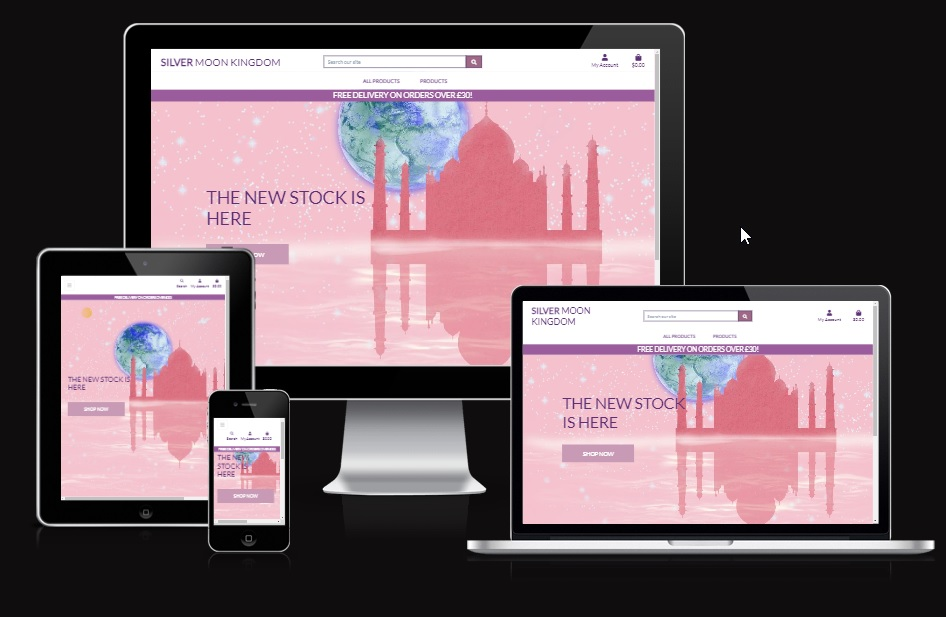
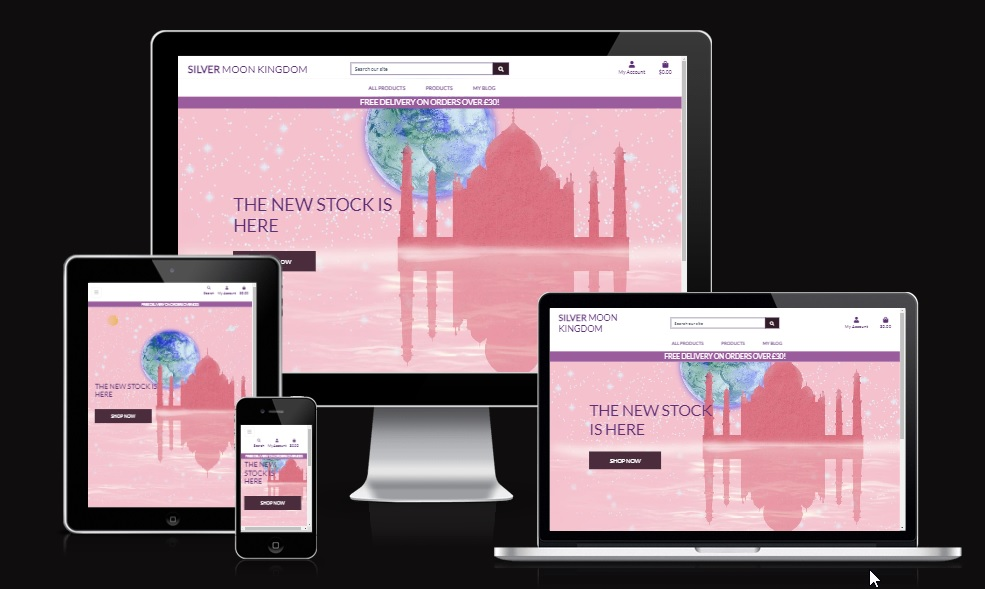
deployment commit

diff --git a/products/templates/products/product_detail.html b/products/templates/products/product_detail.html
@@ -44,9 +44,11 @@
                     {% endif %}
                     <br>
                     {% if product.artistname %}
-                    <small class="text-muted"><i class="fas fa-book mr-1"></i>{{ product.artistname }}</small>
-                    {% else %}
-                        <small class="text-muted">No Name available</small>
+                    <p class="small mt-1 mb-0">
+                        <a class="text-muted" href="{% url 'products' %}?artistname={{ product.artistname }}">
+                            <i class="fas fa-book mr-1"></i>{{ product.artistname }}
+                        </a>
+                    </p>
                     {% endif %}
                     {% if request.user.is_superuser %}
                         <small class="ml-3">

diff --git a/templates/includes/main-nav.html b/templates/includes/main-nav.html
@@ -28,7 +28,7 @@
             </div>
         </li>
         <li class="nav-item dropdown">
-            <a class="logo-font font-weight-bold nav-link text-black mr-5" href="{% url 'blog' %}" id="clothing-link" data-toggle="dropdown" aria-haspopup="true" aria-expanded="false">
+            <a class="logo-font font-weight-bold nav-link text-black mr-5" href="#" id="clothing-link" data-toggle="dropdown" aria-haspopup="true" aria-expanded="false">
                 My Blog
             </a>
             <div class="dropdown-menu border-0" aria-labelledby="clothing-link">

diff --git a/README.md b/README.md
@@ -177,8 +177,10 @@ ERD:
     2. Verified that images are loading on the deployed page 
     ![AWS](media/AWSS3.png)
 
- ## Bugs 
-    - No known bugs
+ ### Bugs 
+
+am I responsive [website](https://ui.dev/amiresponsive?url=https://sm-kingdom-8e52019dc777.herokuapp.com/) for deployed project doesn't return the deployed webpage, however the generator works fine with the local build. 
+This issue has been checked by CI student technical support team and they were not able to explain the behaviour and assist with fixing it, so the screenshot fpr am I responsive has been done using the locally deployed app. 
 
  ### Solved bugs
     - When users were trying to register the page was returning error 500, that was fixed by adding ACCOUNT_EMAIL_VERIFICATION as none. 
